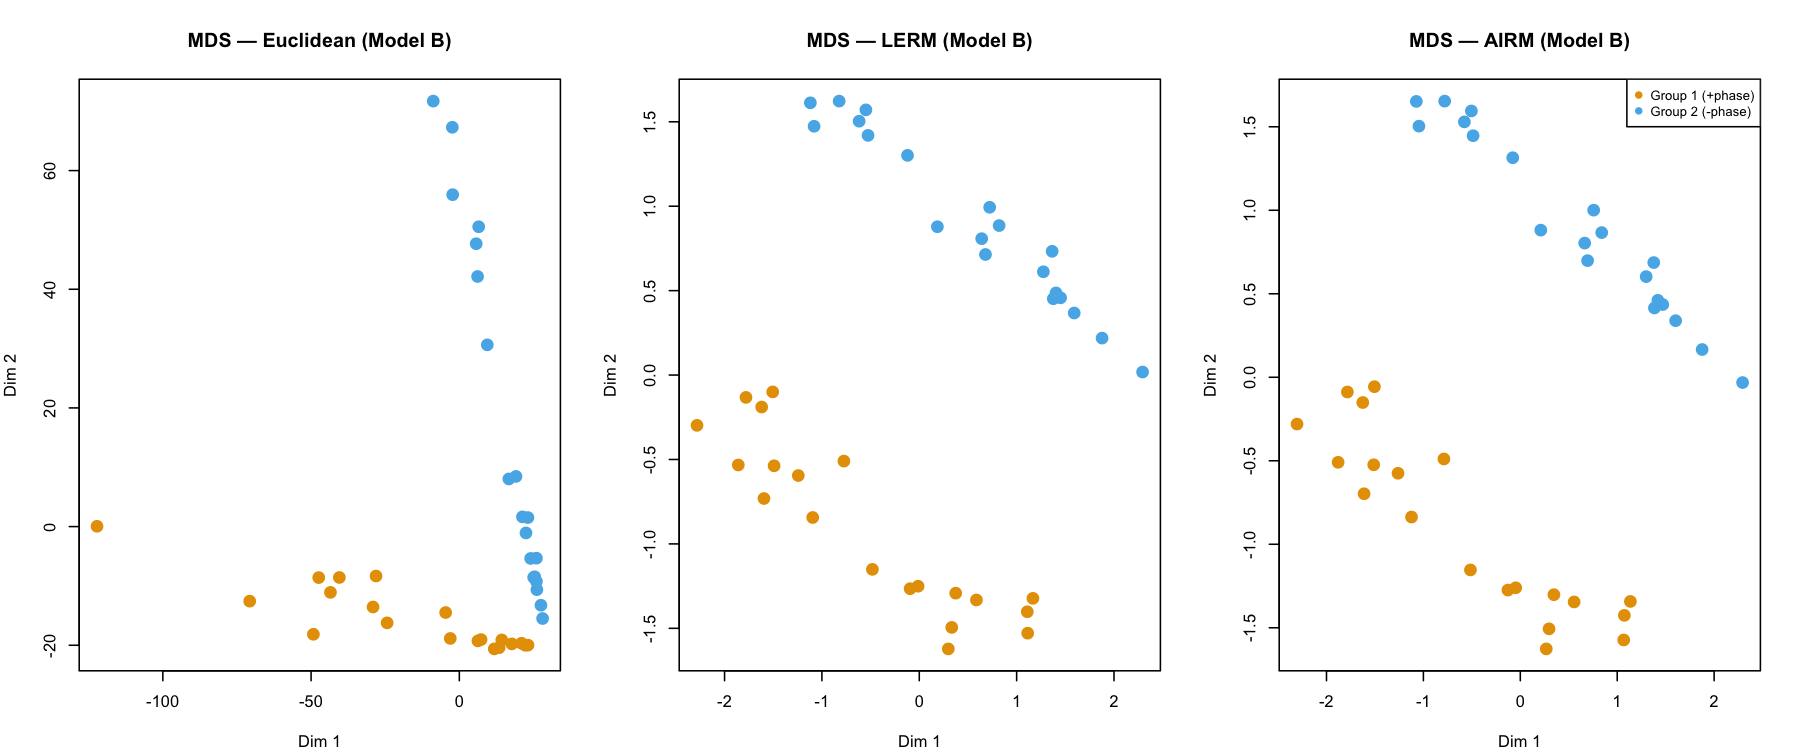
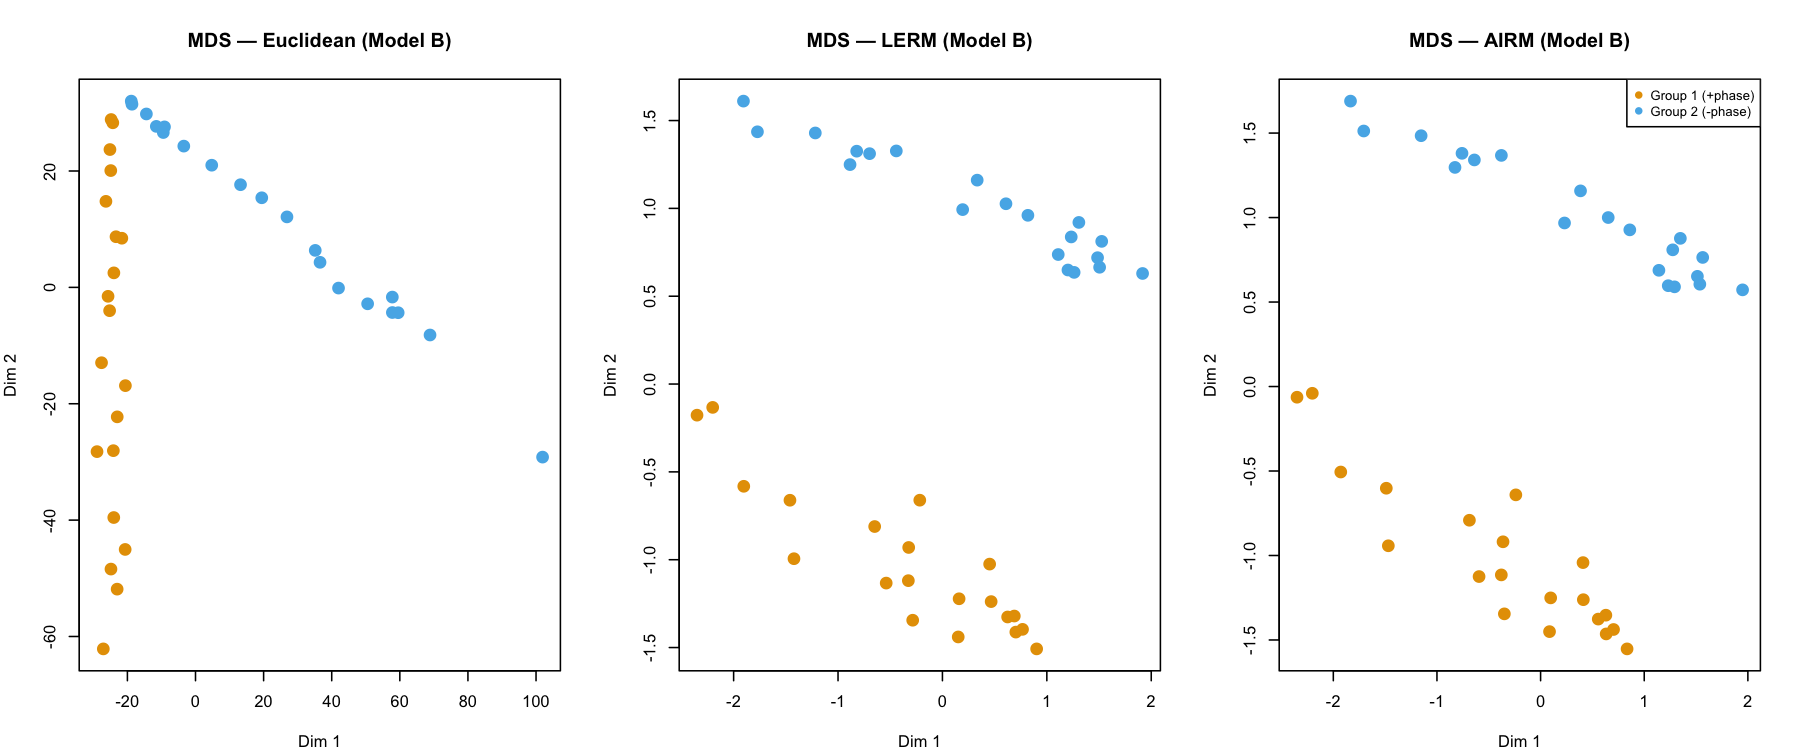
Update Model B plots with color-coded matrices and representative successful run (mc=1) to prevent cuts

diff --git a/README.md b/README.md
@@ -70,3 +70,50 @@ Upon execution, the script prints summary tables of Adjusted Rand Index (ARI), A
 * `time_vs_sample_size.png` & `time_vs_dimension.png` & `time_vs_cohort.png`: Clustering computation time (s) comparison vs. signal length, channel count, and cohort size.
 * `model_a_ari_plots.png` & `model_a_confusion_matrices.png` & `model_a_mds.png`: Robustness plots for Model A.
 * `model_b_ari_plots.png` & `model_b_confusion_matrices.png` & `model_b_mds.png`: Robustness plots for Model B.
+
+---
+
+## Visual Results & Simulation Diagnosis
+
+Here are the key diagnostic visualizations produced by the simulation suite.
+
+### 1. Model B: Harmonic Signal + Spatiotemporally Correlated VAR(2) Noise
+Under a challenging scaling factor of **0.37**, this experiment evaluates the performance of Euclidean vs. Log-Euclidean (LERM) and Affine-Invariant (AIRM) Riemannian metrics.
+
+#### ARI Performance (Boxplot & Barplot)
+The Log-Euclidean (LERM) and Affine-Invariant (AIRM) Riemannian metrics remain highly robust (Mean ARI $\approx 0.934$ and $0.864$), while the Euclidean metric fails (Mean ARI $\approx 0.287$).
+![Model B ARI Performance](plots/model_b_ari_plots.png)
+
+#### Confusion Matrices (Representative Run)
+A representative successful run (Run 1) displays the perfect separation obtained by the Riemannian metrics in contrast to the high error rate of the Euclidean metric.
+![Model B Confusion Matrices](plots/model_b_confusion_matrices.png)
+
+#### 2D Manifold Visualization (MDS)
+The multidimensional scaling projection illustrates the clean, distinct clusters captured by LERM and AIRM, whereas the Euclidean space shows massive overlap due to the random global amplitude scaling factor trap.
+![Model B MDS Projection](plots/model_b_mds.png)
+
+### 2. Model A: Pure Autoregressive AR(2) Process (Alpha vs. Beta Rhythm)
+This simulation evaluates state classification under varying alpha/beta rhythmic components with scaling distortions.
+
+#### ARI Performance
+![Model A ARI Performance](plots/model_a_ari_plots.png)
+
+#### Confusion Matrices
+![Model A Confusion Matrices](plots/model_a_confusion_matrices.png)
+
+#### 2D Manifold Visualization (MDS)
+![Model A MDS Projection](plots/model_a_mds.png)
+
+### 3. Experiment 1: Baseline Phase Separation under Scaling Distortions
+This experiment demonstrates the fundamental geometric vulnerability of the Euclidean distance to signal amplitude variations.
+
+#### Pairwise Distance Heatmaps ($N \times N$)
+While the Euclidean distance matrix is dominated by scaling differences and shows no block structure, the Riemannian distance matrix naturally highlights the intra-group phase topology.
+![Experiment 1 Distance Heatmaps](plots/exp1_heatmaps.png)
+
+#### 2D Manifold Visualization (MDS)
+![Experiment 1 MDS Projection](plots/exp1_mds.png)
+
+#### Confusion Matrices
+![Experiment 1 Confusion Matrices](plots/exp1_confusion_matrices.png)
+